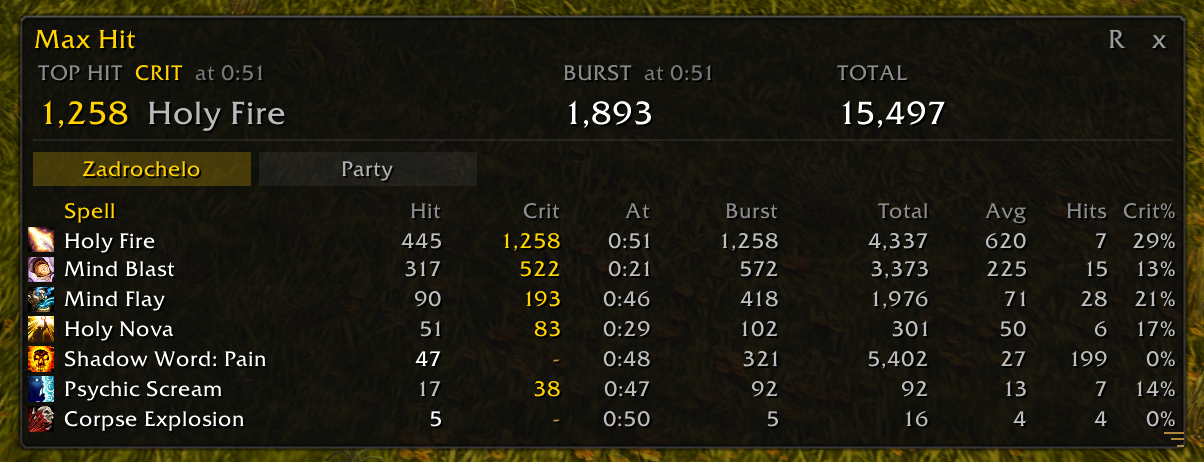
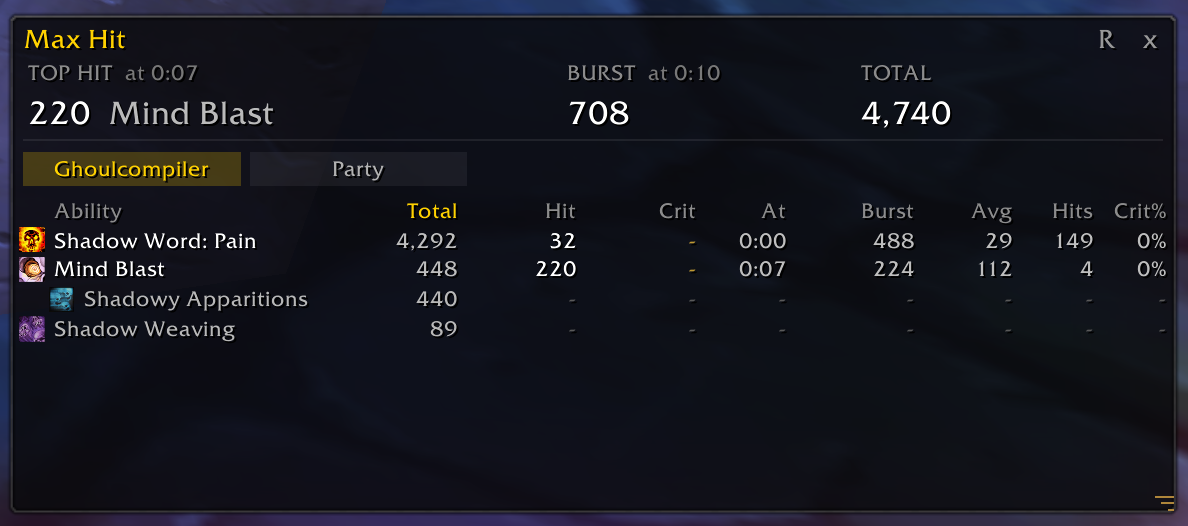
New co-op screenshots

diff --git a/README.md b/README.md
@@ -34,6 +34,8 @@ In co-op, two tabs appear under the summary: one with your name for your own abi
 |---|---|
 | ![Your abilities in co-op](images/coop.png) | ![Party tab: every hero side by side](images/party.png) |
 
+*The screenshots use an example party.*
+
 The Party tab shows each hero with their class icon and color, their top ability and its DPS, their DPS, total damage and share of the party's damage.
 
 ## Install
